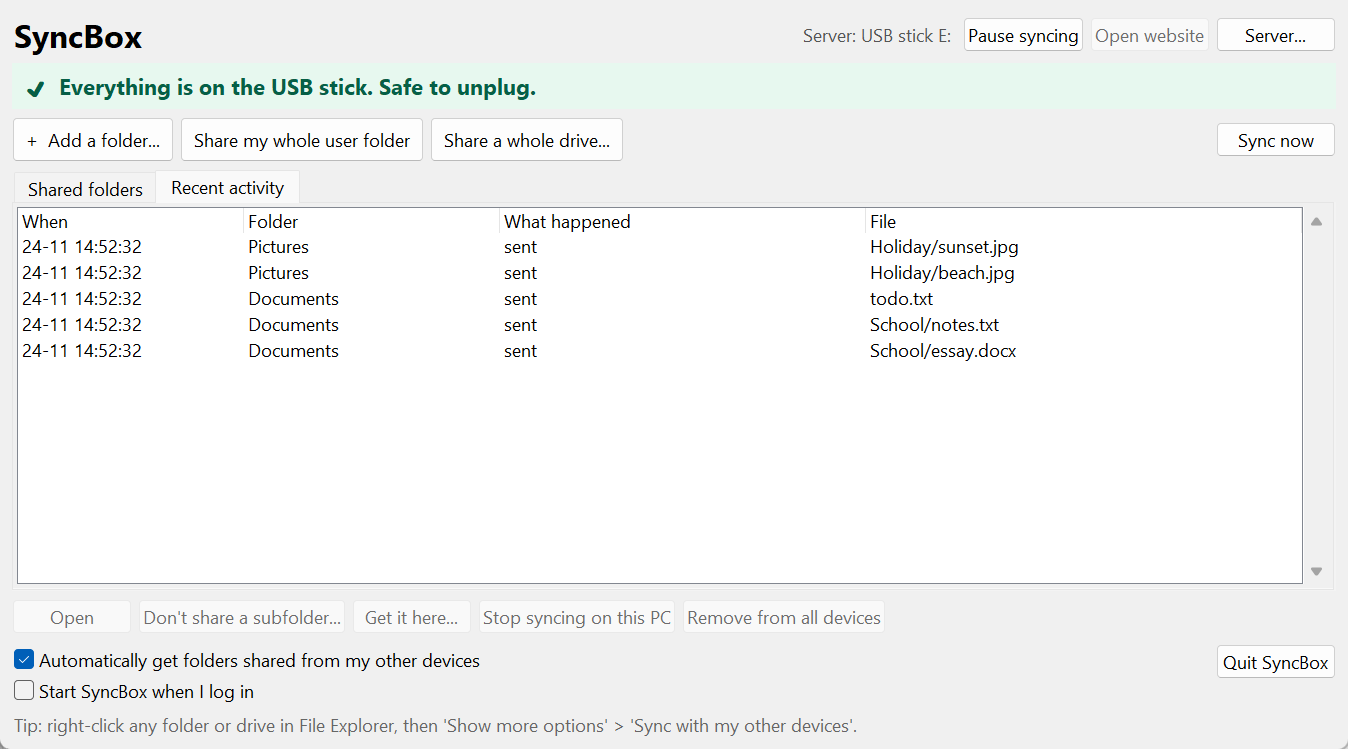
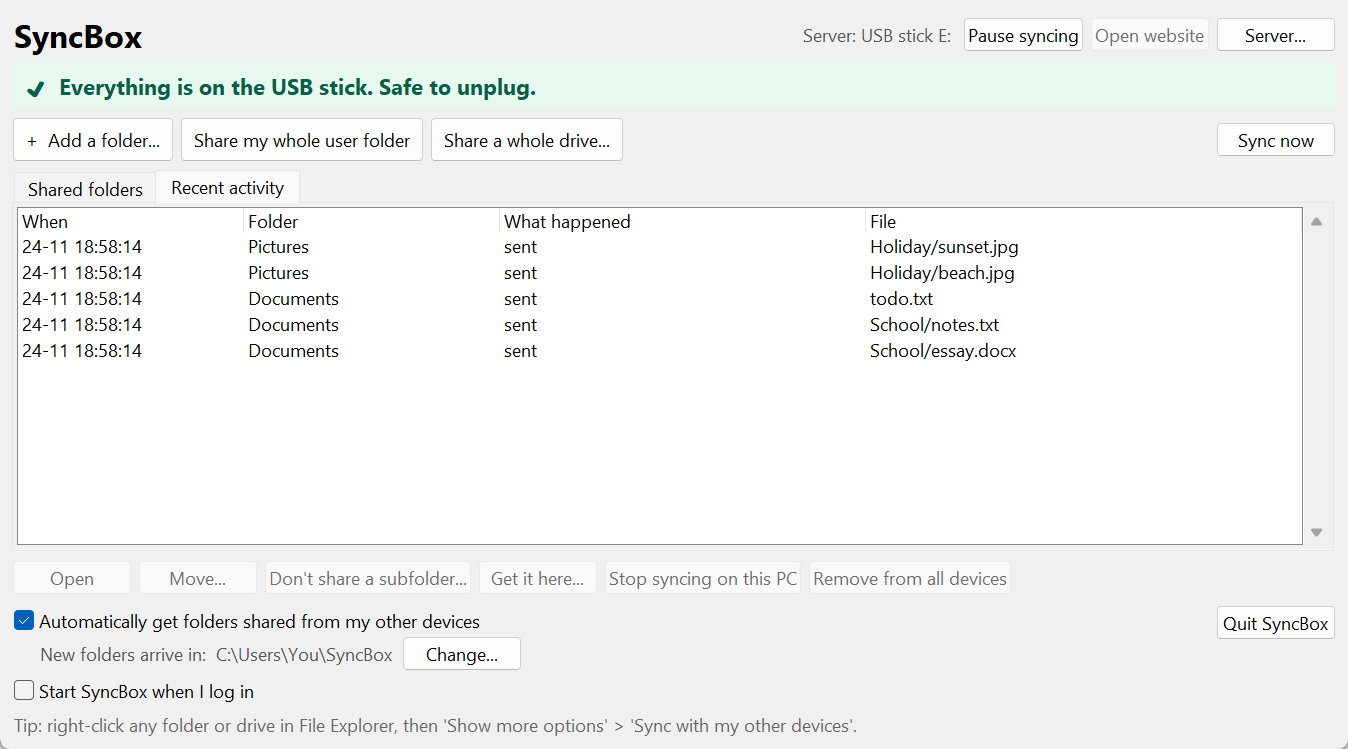
Choose where new folders arrive, move synced folders, Pi --update

Changed region(s): [[0.0, 0.7677, 0.7478, 0.8905], [0.0623, 0.3071, 0.1246, 0.4913], [0.9036, 0.8291, 0.997, 0.9212]]

diff --git a/client/syncbox.py b/client/syncbox.py
@@ -24,7 +24,7 @@ Command line (normally not needed):
 Only the Python standard library is used.
 """
 
-VERSION = 3
+VERSION = 4
 
 import fnmatch
 import hashlib
@@ -666,13 +666,19 @@ def sync_folder(fid, local, hub, exclude, device, progress=None, on_event=None):
     return changes, failed, pending
 
 
-def default_location(entry):
+def receive_dir(cfg):
+    """Where folders from other computers arrive (the user can change it)."""
+    return Path(cfg.get("receive_dir") or HOME / "SyncBox")
+
+
+def default_location(entry, cfg=None):
+    base = receive_dir(cfg or {})
     if entry.get("drive"):
         d = entry["drive"].upper()
-        return d + "\\" if os.path.isdir(d + "\\") else str(HOME / "SyncBox" / entry["name"])
+        return d + "\\" if os.path.isdir(d + "\\") else str(base / entry["name"])
     if entry.get("home_rel") is not None:
         return str(HOME / entry["home_rel"]) if entry["home_rel"] else str(HOME)
-    return str(HOME / "SyncBox" / entry["name"])
+    return str(base / entry["name"])
 
 
 class Engine(threading.Thread):
@@ -688,12 +694,14 @@ class Engine(threading.Thread):
         self.registry = {}
         self.reported = set()
         self.activity = deque(maxlen=500)   # (time, folder, what, file)
+        self.cycle_lock = threading.Lock()  # held while syncing, so a folder can't move mid-sync
 
     def run(self):
         while True:
             start = time.time()
             try:
-                self.cycle()
+                with self.cycle_lock:
+                    self.cycle()
             except OSError as e:
                 self.hub_status = "Can't reach the server, retrying..."
                 log(f"server problem: {e}")
@@ -740,7 +748,7 @@ class Engine(threading.Thread):
             for fid, entry in reg.items():
                 if fid in cfg["folders"] or fid in cfg["declined"]:
                     continue
-                target = default_location(entry)
+                target = default_location(entry, cfg)
                 if not entry.get("drive") and self.app.overlap_problem(target) is None:
                     self.app.attach(fid, target)
                     log(f"[{fid}] receiving '{entry['name']}' into {target}")
@@ -947,6 +955,7 @@ class App:
         self.cfg = load_config()
         self.lock = threading.Lock()
         self.msgs = queue.Queue()
+        self.moving = set()      # folders being moved right now
 
         if os.name == "nt":
             try:   # sharp text on high-DPI screens
@@ -1000,13 +1009,15 @@ class App:
         except OSError:
             pass
 
-    def overlap_problem(self, path, new_exclude=()):
+    def overlap_problem(self, path, new_exclude=(), skip_fid=None):
         """Folders may not overlap, unless the overlapping part is excluded."""
         cfg = self.snapshot()
         hub = cfg["hub"]
         if hub and not hub.startswith("http") and (norm(path) == norm(hub) or is_inside(path, hub)):
             return "That's the server folder itself."
         for fid, f in cfg["folders"].items():
+            if fid == skip_fid:
+                continue
             other = f["local"]
             ex = self.engine.registry.get(fid, {}).get("exclude", []) if hasattr(self, "engine") else []
             if norm(path) == norm(other):
@@ -1091,11 +1102,12 @@ class App:
         acts = ttk.Frame(self.root, padding=(12, 4))
         acts.pack(fill="x")
         self.b_open = ttk.Button(acts, text="Open", command=self.open_selected)
+        self.b_move = ttk.Button(acts, text="Move...", command=self.move_folder)
         self.b_excl = ttk.Button(acts, text="Don't share a subfolder...", command=self.exclude_subfolder)
         self.b_get = ttk.Button(acts, text="Get it here...", command=self.get_here)
         self.b_stop = ttk.Button(acts, text="Stop syncing on this PC", command=self.stop_here)
         self.b_del = ttk.Button(acts, text="Remove from all devices", command=self.remove_everywhere)
-        for b in (self.b_open, self.b_excl, self.b_get, self.b_stop, self.b_del):
+        for b in (self.b_open, self.b_move, self.b_excl, self.b_get, self.b_stop, self.b_del):
             b.pack(side="left", padx=(0, 6))
 
         bottom = ttk.Frame(self.root, padding=(12, 6, 12, 10))
@@ -1104,6 +1116,12 @@ class App:
         self.v_start = tk.BooleanVar(value=startup_enabled())
         ttk.Checkbutton(bottom, text="Automatically get folders shared from my other devices",
                         variable=self.v_auto, command=self.toggle_auto).pack(anchor="w")
+        recv = ttk.Frame(bottom)
+        recv.pack(anchor="w", padx=(26, 0), pady=(0, 4))
+        self.recv_lbl = ttk.Label(recv, foreground="#555")
+        self.recv_lbl.pack(side="left")
+        ttk.Button(recv, text="Change...", command=self.change_receive_dir).pack(side="left", padx=(8, 0))
+        self.show_receive_dir()
         ttk.Checkbutton(bottom, text="Start SyncBox when I log in",
                         variable=self.v_start, command=self.toggle_start).pack(anchor="w")
         ttk.Label(bottom, foreground="#666",
@@ -1119,7 +1137,8 @@ class App:
     def update_buttons(self):
         fid = self.selected()
         mine = bool(fid and fid in self.cfg["folders"])
-        for b, on in ((self.b_open, mine), (self.b_excl, mine), (self.b_stop, mine),
+        movable = mine and fid not in self.moving and self.can_move(self.cfg["folders"][fid]["local"])
+        for b, on in ((self.b_open, mine), (self.b_move, movable), (self.b_excl, mine), (self.b_stop, mine),
                       (self.b_get, bool(fid) and not mine), (self.b_del, bool(fid))):
             b.state(["!disabled"] if on else ["disabled"])
         self.b_web.state(["!disabled"] if str(self.cfg.get("hub", "")).startswith("http")
@@ -1324,7 +1343,7 @@ class App:
         entry = self.engine.registry.get(fid or "")
         if not entry:
             return
-        default = default_location(entry)
+        default = default_location(entry, self.snapshot())
         ans = messagebox.askyesnocancel("SyncBox", f"Put '{entry['name']}' here?\n\n{default}\n\n"
                                                    "Yes = use this place\nNo = choose another folder")
         if ans is None:
@@ -1380,6 +1399,99 @@ class App:
             self.cfg["auto_receive"] = self.v_auto.get()
             save_config(self.cfg)
         self.engine.wake.set()
+
+    def show_receive_dir(self):
+        self.recv_lbl.config(text=f"New folders arrive in:  {receive_dir(self.snapshot())}")
+
+    def change_receive_dir(self):
+        from tkinter import filedialog
+        path = filedialog.askdirectory(title="Where should folders from your other computers arrive?",
+                                       initialdir=str(receive_dir(self.snapshot())))
+        if not path:
+            return
+        with self.lock:
+            self.cfg["receive_dir"] = os.path.normpath(path)
+            save_config(self.cfg)
+        self.show_receive_dir()
+
+    @staticmethod
+    def can_move(local):
+        """Whole drives and the user folder itself can't be moved."""
+        p = Path(local)
+        return p.parent != p and norm(local) != norm(HOME)
+
+    def move_folder(self):
+        from tkinter import filedialog, messagebox
+        fid = self.selected()
+        if not fid or fid not in self.cfg["folders"] or fid in self.moving:
+            return
+        local = self.cfg["folders"][fid]["local"]
+        if not self.can_move(local):
+            messagebox.showerror("SyncBox", "A whole drive or your user folder can't be moved.")
+            return
+        parent = filedialog.askdirectory(title=f"Move '{Path(local).name}' into which folder?",
+                                         initialdir=str(Path(local).parent))
+        if not parent:
+            return
+        target = os.path.normpath(os.path.join(parent, Path(local).name))
+        if norm(target) == norm(local):
+            return
+        if os.path.exists(target):
+            messagebox.showerror("SyncBox", f"There's already a folder called '{Path(local).name}' there:\n"
+                                            f"{target}\n\nChoose another place.")
+            return
+        if is_inside(target, local):
+            messagebox.showerror("SyncBox", "You can't move a folder into itself.")
+            return
+        ex = self.engine.registry.get(fid, {}).get("exclude", [])
+        problem = self.overlap_problem(target, ex, skip_fid=fid)
+        if problem:
+            messagebox.showerror("SyncBox", f"Can't move it there.\n\n{problem}")
+            return
+        if not messagebox.askyesno("SyncBox", f"Move this folder and everything in it?\n\nFrom:  {local}\n"
+                                              f"To:      {target}\n\nIt keeps syncing from the new place. "
+                                              "Close any files from it that are open first."):
+            return
+        self.moving.add(fid)
+        self.engine.status[fid] = "Moving..."
+        threading.Thread(target=self._move_worker, args=(fid, local, target), daemon=True).start()
+
+    def _move_worker(self, fid, local, target):
+        def use_target():
+            with self.lock:
+                if fid in self.cfg["folders"]:
+                    self.cfg["folders"][fid]["local"] = target
+                    save_config(self.cfg)
+        try:
+            with self.engine.cycle_lock:          # wait until the current sync round is done
+                self.engine.status[fid] = "Moving..."
+                if os.path.splitdrive(local)[0].lower() == os.path.splitdrive(target)[0].lower():
+                    os.rename(local, target)      # same drive: instant, all or nothing
+                    use_target()
+                    leftovers = False
+                else:
+                    # other drive: first a complete copy, then switch, then clean up the old place.
+                    # If the copy fails, nothing changes and the old folder keeps syncing.
+                    shutil.copytree(local, target, symlinks=True)
+                    use_target()
+                    shutil.rmtree(local, ignore_errors=True)
+                    leftovers = os.path.exists(local)
+            log(f"[{fid}] moved from {local} to {target}")
+            msg = f"Done! The folder is now in:\n{target}"
+            if leftovers:
+                msg += f"\n\nSome files in the old place couldn't be removed (still open?):\n{local}\n" \
+                       "They're no longer synced, so you can delete them yourself."
+            self.msgs.put("info\n" + msg)
+        except OSError as e:
+            log(f"[{fid}] move failed: {e}")
+            msg = f"Couldn't move the folder, so it stays where it was:\n{local}\n\n{e}"
+            if os.path.exists(target):
+                msg += f"\n\nA partial copy is in {target}. You can delete it."
+            self.msgs.put("error\n" + msg)
+        finally:
+            self.moving.discard(fid)
+            self.engine.status[fid] = "Waiting..."
+            self.engine.wake.set()
 
     def toggle_pause(self):
         with self.lock:
@@ -1555,6 +1667,10 @@ class App:
                 self.add_folder(m[4:].strip().strip('"'))
             elif m == "show":
                 self.show()
+            elif m.startswith(("info\n", "error\n")):
+                from tkinter import messagebox
+                kind, _, text = m.partition("\n")
+                (messagebox.showinfo if kind == "info" else messagebox.showerror)("SyncBox", text)
             elif m == "quit":
                 self.quit()
         self.root.after(200, self.poll_msgs)

diff --git a/README.md b/README.md
@@ -27,6 +27,7 @@ No pushing, no pulling, no big cloud company. Just Python, no dependencies.
   - a safety brake stops mass deletes, for example when a drive is unplugged
 - **Recent activity:** see every file that was sent, received or deleted.
 - **Pause / resume** with one click.
+- **Your choice of place:** pick where folders from your other computers arrive, and move a synced folder anywhere (even to another drive) with **Move...**. It keeps syncing from the new place.
 - **Right-click menu:** "Sync with my other devices" on any folder or drive in File Explorer.
 - **Per-computer access keys:** if a laptop is lost, remove it from the website.
 
@@ -57,6 +58,8 @@ It asks two things:
 Then it starts SyncBox at `http://<pi-name>.local`. It also starts again automatically after every reboot.
 
 **Moving your files later**, for example to a bigger drive: run `bash server/pi-setup.sh --move` and pick the new place. Your files are copied there, and your computers don't need any changes. If the drive isn't plugged in when the Pi starts, SyncBox waits for it instead of starting with an empty folder.
+
+**Updating** to a new version: `git pull && bash server/pi-setup.sh --update`. Your files and password stay. Then download SyncBox again from the website on each computer to get the newest app.
 
 **On each Windows computer:**
 1. Open `http://raspberrypi.local` and log in.
